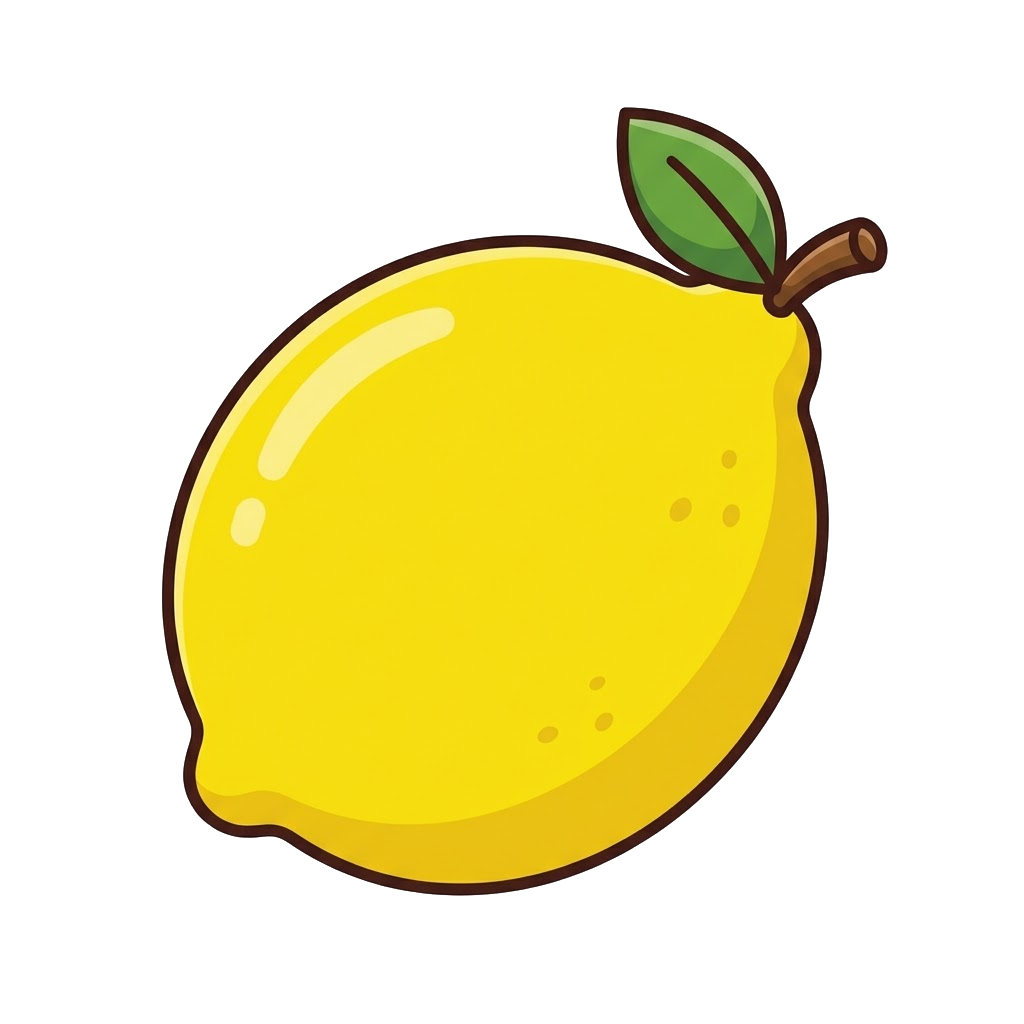
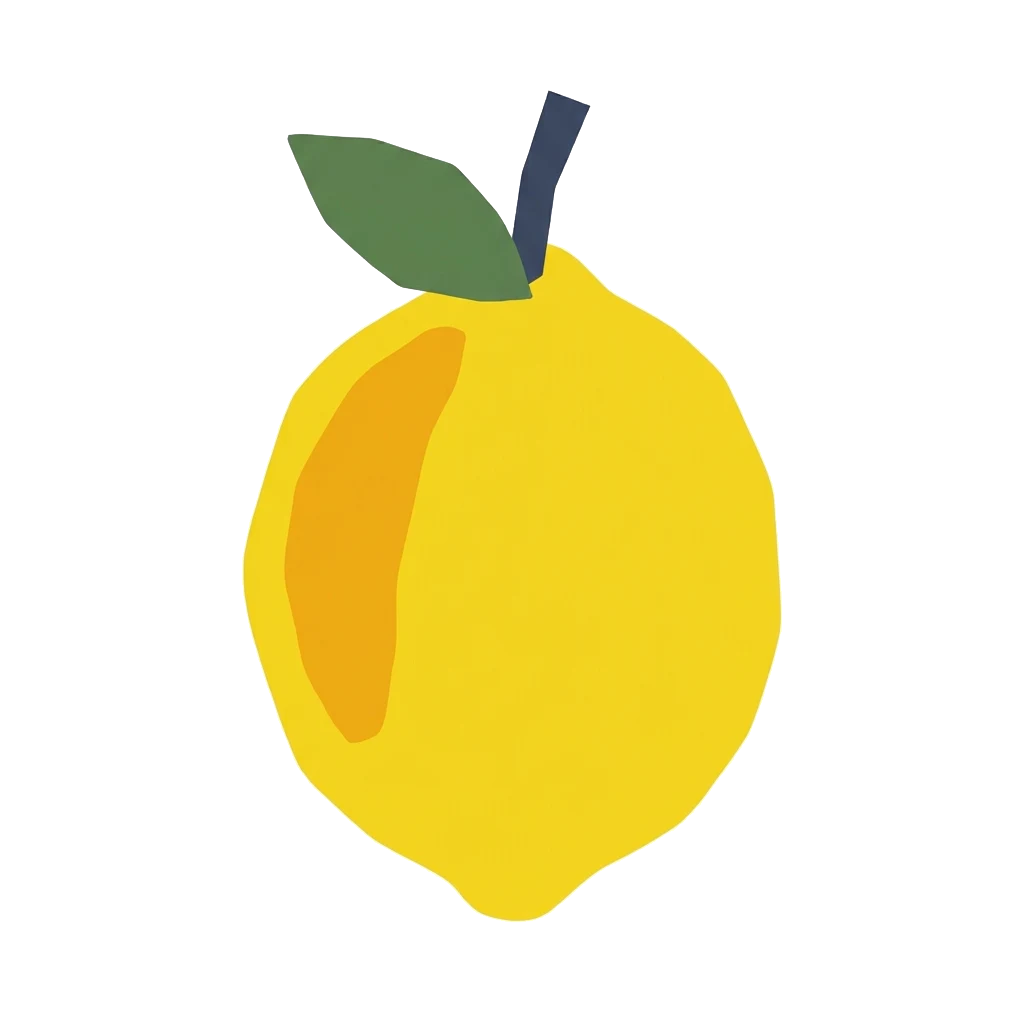
水果 12 張換成 Pok Pok 風：無框線平塗色塊、去背，整組一次換齊
Gemini 走使用者 Chrome 零點擊落地，9 張新生（葡萄～番茄）加上先前 3 張一起進專案；
選單 2 跑過 69/69。CLAUDE.md 補上素材現況與 JS 輪詢 45 秒逾時的節奏註記。

Changed region(s): [[0.1562, 0.0938, 0.875, 0.9062]]

diff --git a/CLAUDE.md b/CLAUDE.md
@@ -44,7 +44,7 @@
 ## 素材現況（2026-11-04）
 
 - 主題 7 組：動物 12、水果 12、交通工具 11、工程車 8、顏色 8（程式畫色球）、生活用品 10（Gemini，2026-11-04）、身體 8（Gemini，2026-11-04，小熊指著該部位）。**七組全部有圖，69 張卡的圖與語音都已接進 Deck 資產**（2026-11-05 跑完選單 2 確認 69/69）。注意「有 PNG」不等於「Deck 接上了」：丟完素材沒跑選單 2 的話，Deck 裡的 `image` 會留在 `{fileID: 0}`，整組就退回純文字卡——身體與生活用品兩組就這樣空轉過一段時間。要查就 grep `Assets/BabyApp/Resources/Decks/Deck_*.asset` 還有沒有 `image: {fileID: 0}`。身體卡的 prompt：「Same style, same honey bear character. Subject: the honey bear cub <動作>, front view, whole body visible.」，第一張要先貼小熊角色設定。
-- **2026-11-12 起改成 Pok Pok 風（平塗色塊、無框線、無陰影，見 docs/research/2026-11-12-PokPok風格.md 第 9 節）**，動物 12 張與小熊 5 張已換成新風格並去背；水果換了 3 張（蘋果／香蕉／橘子，還在 `tools/gemini-incoming/`，整組換齊才搬進 Assets，不要一組裡兩種風格）；交通工具、工程車、生活用品、身體與 4 張封面還是舊的粗黑邊風格，待換。舊圖全部 Gemini 生成並去背（2026-10-23）。OpenMoji 已不再使用（tools/openmoji-* 只是歷史）。
+- **2026-11-12 起改成 Pok Pok 風（平塗色塊、無框線、無陰影，見 docs/research/2026-11-12-PokPok風格.md 第 9 節）**，動物 12 張、水果 12 張（2026-11-13）與小熊 5 張已換成新風格並去背；交通工具、工程車、生活用品、身體與 4 張封面還是舊的粗黑邊風格，待換（整組換齊才搬進 Assets，不要一組裡兩種風格）。舊圖全部 Gemini 生成並去背（2026-10-23）。OpenMoji 已不再使用（tools/openmoji-* 只是歷史）。
 - 叫聲：25 個來自 Wikimedia Commons（出處在 docs/素材授權.md）。卡車＝柴油引擎、消防車＝消防鐘、工程車組共用柴油、堆高機專屬。兔子沒叫聲。
 - 名稱語音與小熊台詞（2026-11-05 換成 **Azure AI Speech**）：中文 `zh-TW-HsiaoYuNeural`（曉雨，使用者試聽三個聲音後選的）、英文 `en-US-AvaMultilingualNeural`，語速 -10%，全部是剪掉頭尾靜音的 24kHz `.wav`（卡名 0.4～0.8 秒，以前 edge-tts 每個都墊到 1.87 秒）。工具 `python tools/make-voices-azure.py --voice zh-TW-HsiaoYuNeural --cards --prompts`（`--trial` 試聽到 `tools/azure-trial/`、`--list-voices`），**會蓋掉同名檔**。金鑰放 `tools/azure.key`（第一行 KEY 1、第二行區域 `eastasia`，已 gitignore，記事本存檔會多個 `.txt` 要改掉）；資源是 Free F0 層、每月 50 萬字免費，F0 商用授權不明，**發佈前改 S0 重跑一次整批**。台詞清單在 `tools/prompts.csv`，2026-11-05 全部縮短過（「哇～答對了！你好棒喔！」→「答對了！好棒！」），有逗號的句子要加引號不然 csv 會切掉。舊的 edge-tts `.mp3` 已全刪，`make-voices-edge.py` 只是歷史。**不要跑 `make-prompts.ps1`／`make-voices.ps1`**（舊的 SAPI 版）：它們只檢查 `.wav` 存不存在，會把全部台詞重生成 SAPI 的 `.wav`，而 Builder 的 `Prompt()` 優先吃 `.wav`，小熊的聲音會整個被換掉。
 - 吉祥物：五張蜂蜜小熊 Gemini 生成並去背（Art/Mascot，2026-11-13 換成 Pok Pok 風、無框線）。`EnsureMascotPlaceholders()` 只在檔案缺時畫程式佔位。
@@ -60,7 +60,7 @@
 
 流程：`list_connected_browsers` 先認清哪台是**這台電腦**（`onThisComputer: true`；使用者另一台電腦的 Chrome 也會連著，選錯檔案會存到那台去，2026-11-12 就發生過）→ `select_browser` → `tabs_context_mcp` → 開 gemini.google.com/app → 「+」→「建立圖像」→ 貼 prompt → Enter。生好的圖在頁面上是 `blob:` 的 `<img>`，用 javascript_tool 畫到 canvas → `toBlob` → `<a download="animal_dog.png">`，檔案落在**這個 Chrome 設定檔的下載資料夾**（Profile 1 是 `C:\Users\Bachider\Desktop`，從 `%LOCALAPPDATA%\Google\Chrome\User Data\*\Preferences` 的 `download.default_directory` 查），再 `mv` 進 `tools/gemini-incoming/`（gitignored）→ `python tools/knockout-white.py` 在副本上去背 → cp 進 `Assets/BabyApp/Art/...` → 跑選單 2。
 
-**節奏（會咬人）**：一張 ~40～65 秒。**圖還沒出現就送下一句，前一句的回覆會變成空的**，之後那個對話就壞了（兩句都空）；所以每送一句就輪詢 `img` 數量（naturalWidth ≥ 512、排除 gstatic）確認多了一張才送下一句，一句最多等 ~2 分鐘，沒圖就重送同一句一次。每一組卡用**新對話**，第一句貼完整風格段落 + 主體，之後只貼「Same style exactly (flat hand-cut paper, solid fills, NO outlines, …). Subject: …」。一次 browser_batch 最多 25 個動作；視窗窄時用 `find` 拿 ref 而不是座標。**額度**：免費層一天約 25～30 張就會開始偶爾空回覆，最後 Gemini 直接回「我的程式設計裡沒有這樣的功能」= 今天沒了，等隔天同一時間。
+**節奏（會咬人）**：一張 ~40～65 秒。**圖還沒出現就送下一句，前一句的回覆會變成空的**，之後那個對話就壞了（兩句都空）；所以每送一句就輪詢 `img` 數量（naturalWidth ≥ 512、排除 gstatic）確認多了一張才送下一句，一句最多等 ~2 分鐘，沒圖就重送同一句一次（2026-11-13 水果 9 張：西瓜、鳳梨各空一次、重送就有，其餘一次過）。輪詢放在頁面 JS 裡等（`await __wait(n, 38000)`），**單次 `javascript_tool` 超過 45 秒會 CDP 逾時**，所以一次最多等 38 秒、多叫幾次。每一組卡用**新對話**，第一句貼完整風格段落 + 主體，之後只貼「Same style exactly (flat hand-cut paper, solid fills, NO outlines, …). Subject: …」。一次 browser_batch 最多 25 個動作；視窗窄時用 `find` 拿 ref 而不是座標。**額度**：免費層一天約 25～30 張就會開始偶爾空回覆，最後 Gemini 直接回「我的程式設計裡沒有這樣的功能」= 今天沒了，等隔天同一時間。
 
 ## 待辦 / 想法
 
